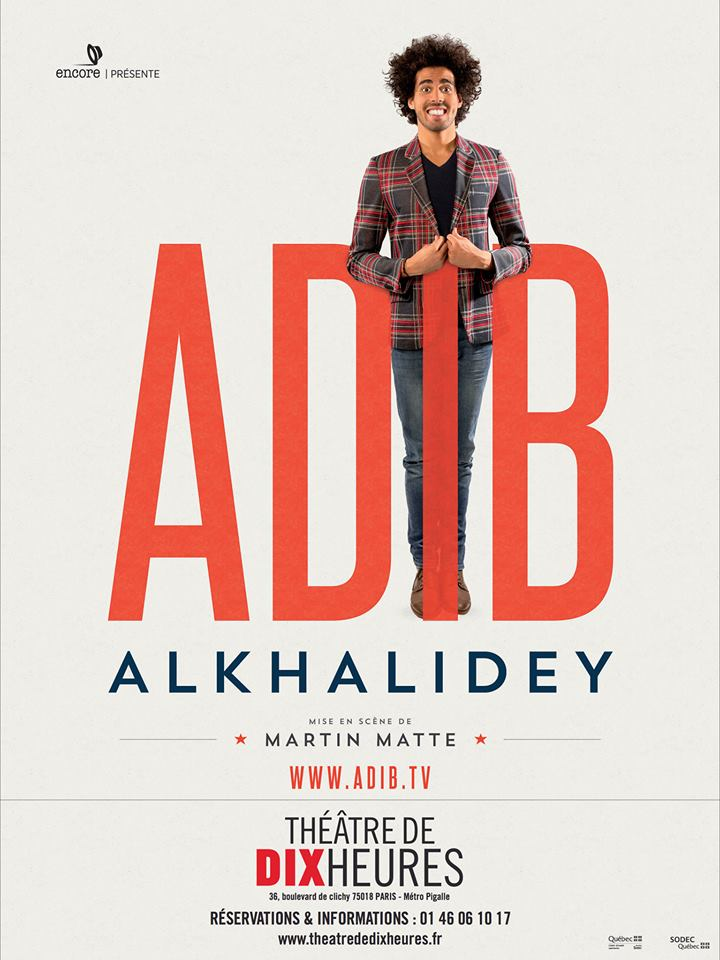
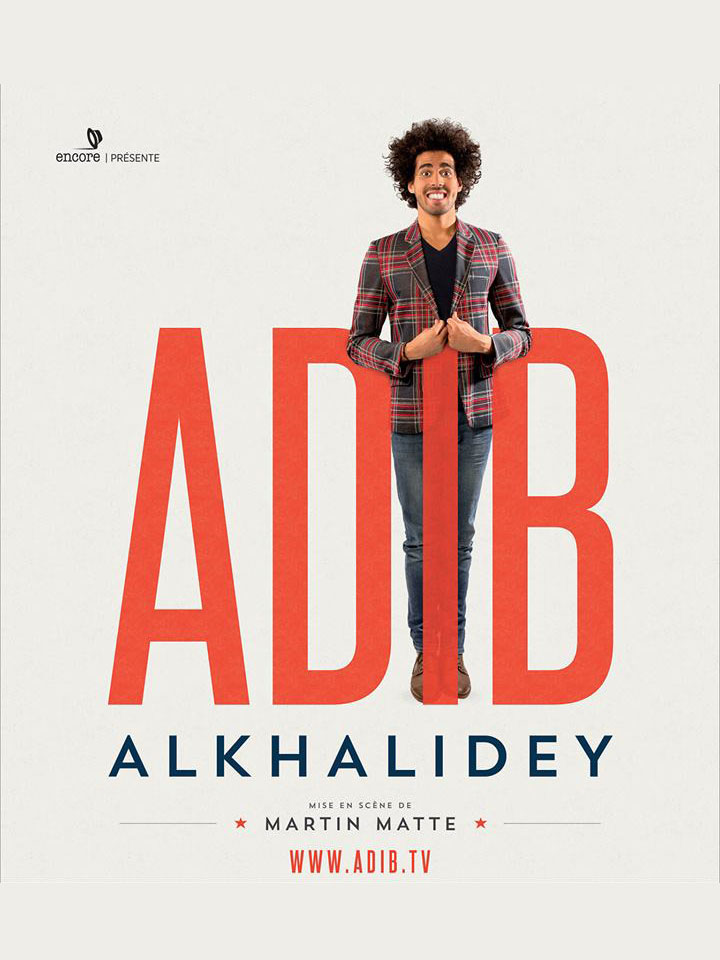
je taime show imagery fixed

diff --git a/index.html b/index.html
@@ -259,7 +259,7 @@
                 <div class="row">
                     <div class="col-sm-6 col-md-4">
                         <div class="item">
-                            <img src="./img/special-jetaime_small.jpg" class="img-fluid special" alt="Couverture du spectacle Je T'aime par Adib Alkhalidey">
+                            <img src="./img/special-jetaime.jpg" class="img-fluid special" alt="Couverture du spectacle Je T'aime par Adib Alkhalidey">
                             <h3>Je t'aime</h3>
                             <h4>2014</h4>
                             <a href="https://itunes.apple.com/ca/movie/adib-alkhalidey-je-taime/id987686781?l=fr" target="_blank"><img class="badge" src="./img/badge-appstore.svg" alt="télécharger sur l'App Store"></a>
